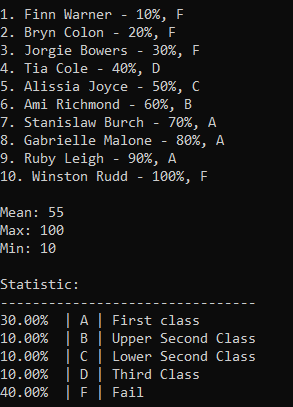
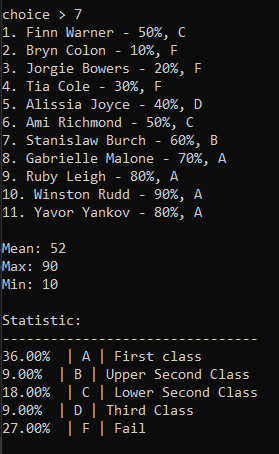
Added features screenshots, UnitTests and screenshot of passed unit tests.

diff --git a/ConsoleApp.Tests/StudentGradesTests.cs b/ConsoleApp.Tests/StudentGradesTests.cs
@@ -20,11 +20,11 @@
         }
 
         [Test]
-        public void AddStudentCommandShouldAddStudent()
+        public void AddStudent()
         {
-            var addStudentCommand = new AddStudentCommand(this._studentGrades);
-
-            addStudentCommand.Execute();
+            var student = new Student { FirstName = "Yavor", LastName = "Yankov"};
+            
+            this._studentGrades.AddStudent(student);
 
             Assert.That(this._studentGrades.Students.Count, Is.EqualTo(11));
         }
@@ -169,7 +169,7 @@
 
             var expectedResult = new double[]
             {
-                40, 10, 10, 10, 30, 0
+                30, 10, 10, 10, 40, 0
             };
 
             Assert.AreEqual(expectedResult, this._studentGrades.GradeProfiles);
@@ -182,6 +182,86 @@
             command.Execute();
 
             Assert.AreEqual(true, this._invoker.IsCompleted);
+        }
+
+        [Test]
+        public void GetGradeFShouldSetMinMark()
+        {
+            var student = new Student { StudentId = 1, FirstName = "Finn", LastName = "Warner", Mark = 0 };
+
+            Assert.That(student.Grade, Is.EqualTo(Grades.F));
+        }
+
+        [Test]
+        public void GetGradeFShouldSetMaxMark()
+        {
+            var student = new Student { StudentId = 1, FirstName = "Finn", LastName = "Warner", Mark = 39 };
+
+            Assert.That(student.Grade, Is.EqualTo(Grades.F));
+        }
+
+        [Test]
+        public void GetGradeDShouldSetMinMark()
+        {
+            var student = new Student { StudentId = 1, FirstName = "Finn", LastName = "Warner", Mark = 40 };
+
+            Assert.That(student.Grade, Is.EqualTo(Grades.D));
+        }
+
+        [Test]
+        public void GetGradeDShouldSetMaxMark()
+        {
+            var student = new Student { StudentId = 1, FirstName = "Finn", LastName = "Warner", Mark = 49 };
+
+            Assert.That(student.Grade, Is.EqualTo(Grades.D));
+        }
+
+        [Test]
+        public void GetGradeCShouldSetMinMark()
+        {
+            var student = new Student { StudentId = 1, FirstName = "Finn", LastName = "Warner", Mark = 50 };
+
+            Assert.That(student.Grade, Is.EqualTo(Grades.C));
+        }
+
+        [Test]
+        public void GetGradeCShouldSetMaxMark()
+        {
+            var student = new Student { StudentId = 1, FirstName = "Finn", LastName = "Warner", Mark = 59 };
+
+            Assert.That(student.Grade, Is.EqualTo(Grades.C));
+        }
+
+        [Test]
+        public void GetGradeBShouldSetMinMark()
+        {
+            var student = new Student { StudentId = 1, FirstName = "Finn", LastName = "Warner", Mark = 60 };
+
+            Assert.That(student.Grade, Is.EqualTo(Grades.B));
+        }
+
+        [Test]
+        public void GetGradeBShouldSetMaxMark()
+        {
+            var student = new Student { StudentId = 1, FirstName = "Finn", LastName = "Warner", Mark = 69 };
+
+            Assert.That(student.Grade, Is.EqualTo(Grades.B));
+        }
+
+        [Test]
+        public void GetGradeAShouldSetMinMark()
+        {
+            var student = new Student { StudentId = 1, FirstName = "Finn", LastName = "Warner", Mark = 70 };
+
+            Assert.That(student.Grade, Is.EqualTo(Grades.A));
+        }
+
+        [Test]
+        public void GetGradeAShouldSetMaxMark()
+        {
+            var student = new Student { StudentId = 1, FirstName = "Finn", LastName = "Warner", Mark = 100 };
+
+            Assert.That(student.Grade, Is.EqualTo(Grades.A));
         }
     }
 }

diff --git a/ConsoleAppProject/Program.cs b/ConsoleAppProject/Program.cs
@@ -38,23 +38,20 @@
         /// </summary>
         public static void Main(string[] args)
         {
-            //while (true)
-            //{
-            //    Console.Beep();
+            while (true)
+            {
+                Console.Beep();
 
-            //    var menu = new Menu(new List<string>()
-            //    {
-            //        Constants.DistanceConverter.PROGRAM_NAME,
-            //        Constants.BMICalculator.PROGRAM_NAME,
-            //        Constants.StudentGrades.PROGRAM_NAME
-            //    });
-            //    menu.LaunchApplicationEvent += LaunchApplication;
+                var menu = new Menu(new List<string>()
+                {
+                    Constants.DistanceConverter.PROGRAM_NAME,
+                    Constants.BMICalculator.PROGRAM_NAME,
+                    Constants.StudentGrades.PROGRAM_NAME
+                });
+                menu.LaunchApplicationEvent += LaunchApplication;
 
-            //    menu.Run();
-            //}
-
-            studentGradesInvoker = new StudentGradesInvoker();
-            studentGradesInvoker.Run();
+                menu.Run();
+            }
         }
 
         /// <summary>

diff --git a/ConsoleAppProject/App03/Commands/AddStudentCommand.cs b/ConsoleAppProject/App03/Commands/AddStudentCommand.cs
@@ -2,7 +2,8 @@
 {
     using System;
     using ConsoleAppProject.Common;
-    
+    using static Common.Constants.StudentGrades;
+
     /// <summary>
     /// The add student command that create and adds a new student in the system database
     /// </summary>
@@ -41,12 +42,12 @@
         private void CreateStudent()
         {
             this._student = new Student();
-            while (this._student.FirstName != default &&
-                this._student.LastName != default)
+
+            while (this._student.LastName == null && this._student.FirstName == null)
             {
                 try
                 {
-                    Console.WriteLine("Add a new student");
+                    Console.WriteLine("\n\rAdd a new student");
 
                     Console.Write("first name: ");
                     this._student.FirstName = Console.ReadLine();

diff --git a/ConsoleAppProject/App03/StudentGrades.Invoker.cs b/ConsoleAppProject/App03/StudentGrades.Invoker.cs
@@ -129,7 +129,12 @@
         /// </summary>
         /// <param name="command">The given command to be executed</param>
         private void ExecuteCommand(Command command)
-            => command.Execute();
+        {
+            if (command is not null)
+            {
+                command.Execute();
+            }
+        }
 
         /// <summary>
         /// Add all command to the dictionary

diff --git a/ConsoleAppProject/App03/Student.cs b/ConsoleAppProject/App03/Student.cs
@@ -139,7 +139,7 @@
             else if (this._mark is >= 60 and < 70)
                 this._grade = Grades.B;
             
-            else if (this._mark is >= 70 and < 100)
+            else if (this._mark is >= 70 and <= 100)
                 this._grade = Grades.A;
         }
     }
